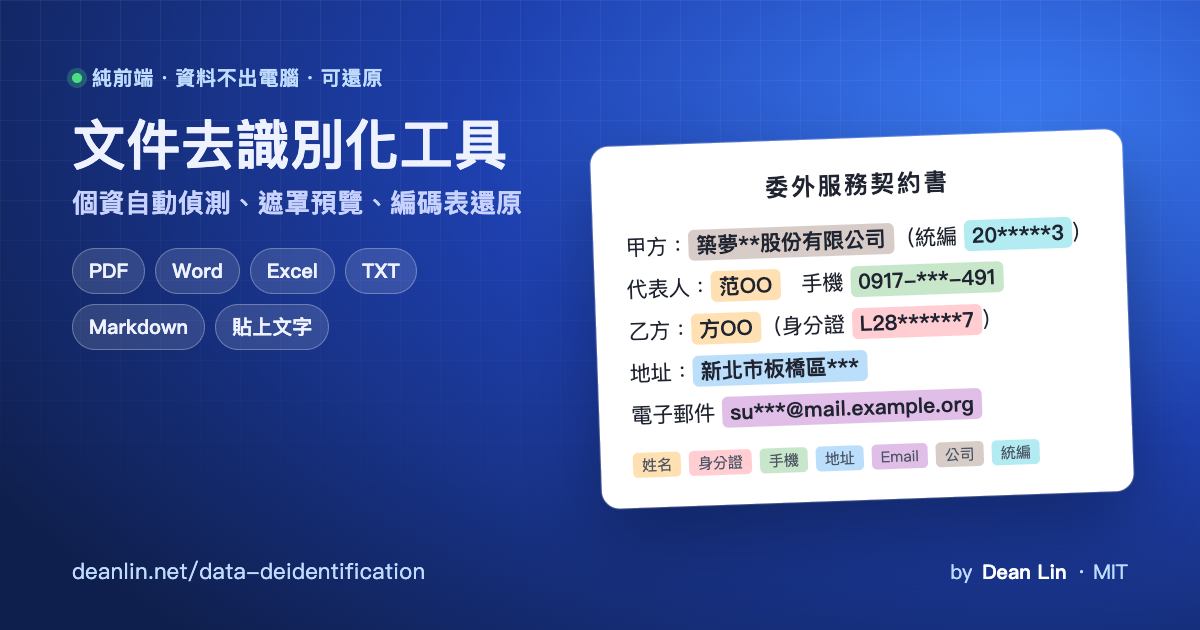
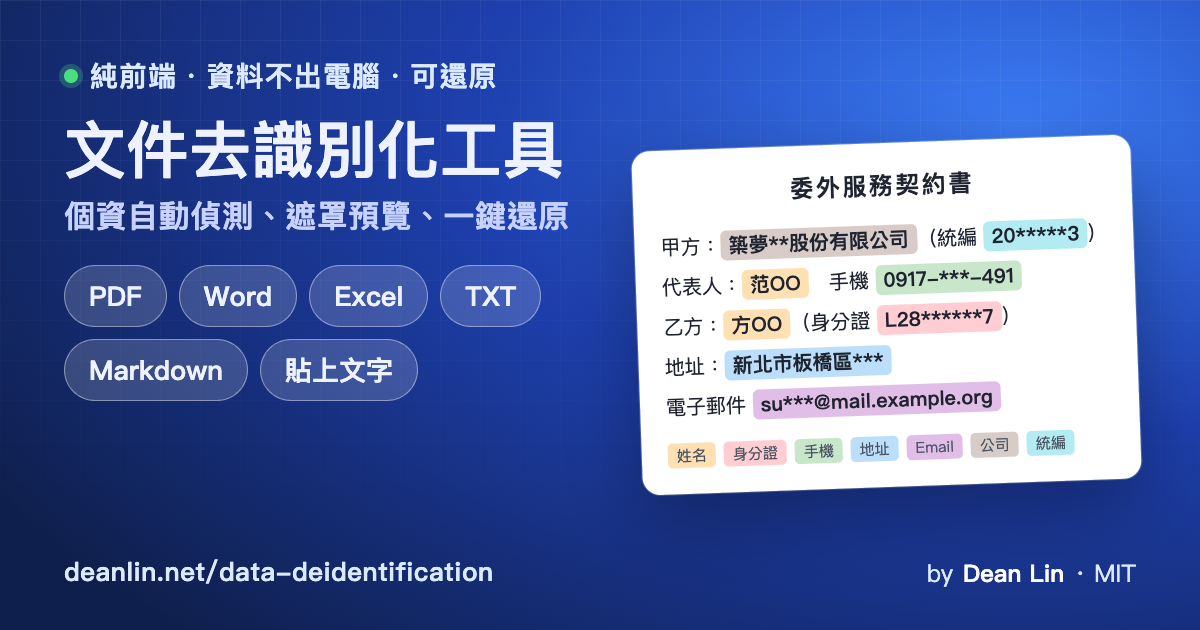
feat(seo): OG 圖放大標語、副標、格式徽章與網址
Claude-Session: https://claude.ai/code/session_01Pe1NHyFC7pEQCDo9j3U4g2

diff --git a/scripts/make-og.ts b/scripts/make-og.ts
@@ -12,22 +12,22 @@ const html = `<!doctype html>
   body { width: 1200px; height: 630px; overflow: hidden; font-family: -apple-system, "PingFang TC", "Noto Sans TC", "Microsoft JhengHei", sans-serif; color: #eef2ff;
     background: radial-gradient(1200px 700px at 85% 20%, #3b7cf6 0%, #1e40af 45%, #0f1f4d 100%); position: relative; }
   .grid { position: absolute; inset: 0; background-image: linear-gradient(rgba(255,255,255,.06) 1px, transparent 1px), linear-gradient(90deg, rgba(255,255,255,.06) 1px, transparent 1px); background-size: 40px 40px; mask-image: linear-gradient(180deg, rgba(0,0,0,.9), transparent 85%); }
-  .wrap { position: relative; display: grid; grid-template-columns: 1.05fr 1fr; gap: 40px; padding: 64px 72px 56px; height: 100%; }
-  .kicker { display: inline-flex; align-items: center; gap: 10px; font-size: 20px; font-weight: 600; color: #bfdbfe; letter-spacing: .04em; }
-  .kicker .dot { width: 10px; height: 10px; border-radius: 50%; background: #4ade80; box-shadow: 0 0 0 5px rgba(74,222,128,.25); }
-  h1 { font-size: 54px; line-height: 1.15; white-space: nowrap; font-weight: 800; margin-top: 22px; letter-spacing: .01em; }
-  h1 small { display: block; font-size: 26px; font-weight: 600; color: #c7d2fe; margin-top: 12px; letter-spacing: .02em; }
-  .chips { display: flex; flex-wrap: wrap; gap: 10px; margin-top: 30px; }
-  .chip { padding: 8px 16px; border-radius: 999px; background: rgba(255,255,255,.12); border: 1px solid rgba(255,255,255,.28); font-size: 20px; font-weight: 600; }
-  .url { position: absolute; left: 72px; bottom: 44px; font-size: 22px; color: #bfdbfe; letter-spacing: .02em; }
-  .card { align-self: center; background: #fff; color: #1f2430; border-radius: 18px; padding: 30px 32px; box-shadow: 0 30px 80px rgba(0,0,0,.35), 0 0 0 1px rgba(255,255,255,.25); transform: rotate(-2deg); }
+  .wrap { position: relative; display: grid; grid-template-columns: 1.2fr 1fr; gap: 36px; padding: 56px 64px 56px; height: 100%; }
+  .kicker { display: inline-flex; align-items: center; gap: 12px; font-size: 28px; font-weight: 700; color: #dbeafe; letter-spacing: .04em; }
+  .kicker .dot { width: 14px; height: 14px; border-radius: 50%; background: #4ade80; box-shadow: 0 0 0 5px rgba(74,222,128,.25); }
+  h1 { font-size: 62px; line-height: 1.15; white-space: nowrap; font-weight: 800; margin-top: 18px; letter-spacing: .01em; }
+  h1 small { display: block; font-size: 31px; font-weight: 600; color: #c7d2fe; margin-top: 14px; letter-spacing: .02em; white-space: normal; }
+  .chips { display: flex; flex-wrap: wrap; gap: 12px; margin-top: 30px; }
+  .chip { padding: 11px 24px; border-radius: 999px; background: rgba(255,255,255,.16); border: 1.5px solid rgba(255,255,255,.4); font-size: 27px; font-weight: 700; }
+  .url { position: absolute; left: 64px; bottom: 40px; font-size: 26px; font-weight: 600; color: #dbeafe; letter-spacing: .02em; }
+  .card { align-self: center; background: #fff; color: #1f2430; border-radius: 18px; padding: 26px 26px; box-shadow: 0 30px 80px rgba(0,0,0,.35), 0 0 0 1px rgba(255,255,255,.25); transform: rotate(-2deg); }
   .card .title { font-size: 24px; font-weight: 800; text-align: center; margin-bottom: 18px; letter-spacing: .1em; }
-  .row { font-size: 21px; line-height: 2; white-space: nowrap; }
+  .row { font-size: 20px; line-height: 2; white-space: nowrap; }
   .m { padding: 1px 8px; border-radius: 6px; font-weight: 600; }
   .n { background: #ffe0b2; } .i { background: #ffcdd2; } .p { background: #c8e6c9; } .a { background: #bbdefb; } .e { background: #e1bee7; } .c { background: #d7ccc8; } .t { background: #b2ebf2; }
   .legend { margin-top: 16px; display: flex; gap: 8px; flex-wrap: wrap; font-size: 15px; color: #4b5563; }
   .legend span { padding: 2px 9px; border-radius: 5px; }
-  .stamp { position: absolute; right: 72px; bottom: 44px; display: flex; align-items: center; gap: 10px; font-size: 20px; color: #bfdbfe; }
+  .stamp { position: absolute; right: 64px; bottom: 40px; display: flex; align-items: center; gap: 10px; font-size: 24px; color: #dbeafe; }
   .stamp b { color: #fff; }
 </style></head>
 <body>
@@ -35,7 +35,7 @@ const html = `<!doctype html>
 <div class="wrap">
   <div>
     <div class="kicker"><span class="dot"></span>純前端・資料不出電腦・可還原</div>
-    <h1>文件去識別化工具<small>個資自動偵測、遮罩預覽、編碼表還原</small></h1>
+    <h1>文件去識別化工具<small>個資自動偵測、遮罩預覽、一鍵還原</small></h1>
     <div class="chips"><span class="chip">PDF</span><span class="chip">Word</span><span class="chip">Excel</span><span class="chip">TXT</span><span class="chip">Markdown</span><span class="chip">貼上文字</span></div>
   </div>
   <div class="card">
